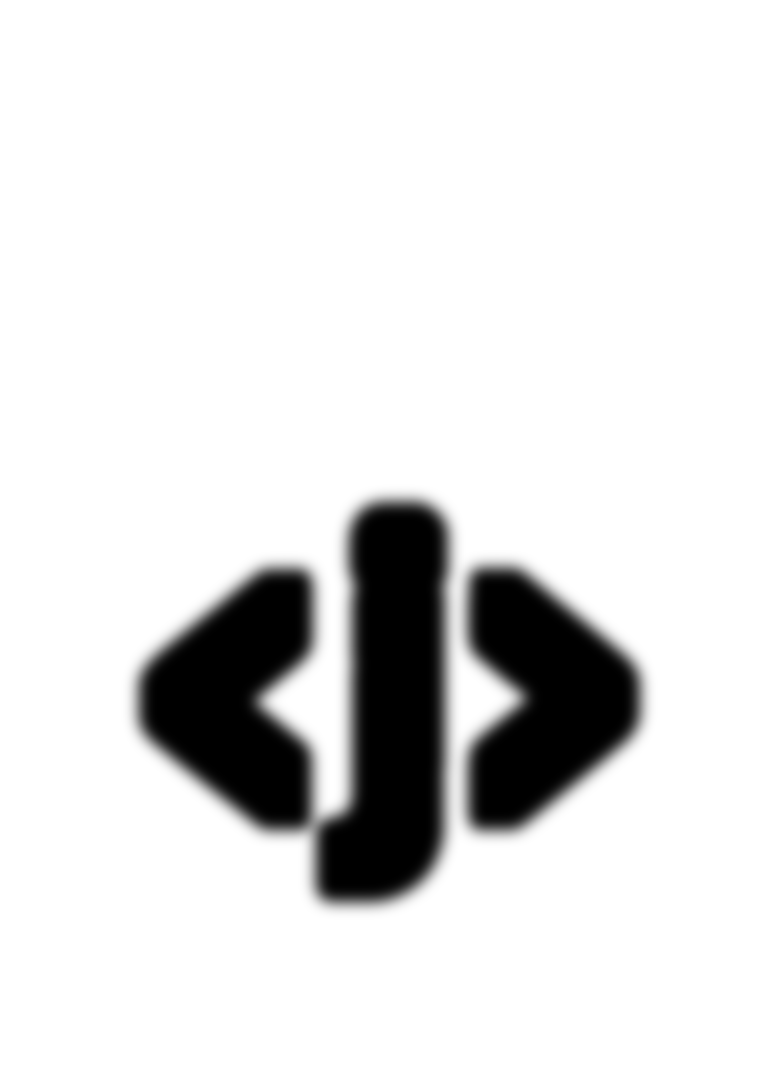
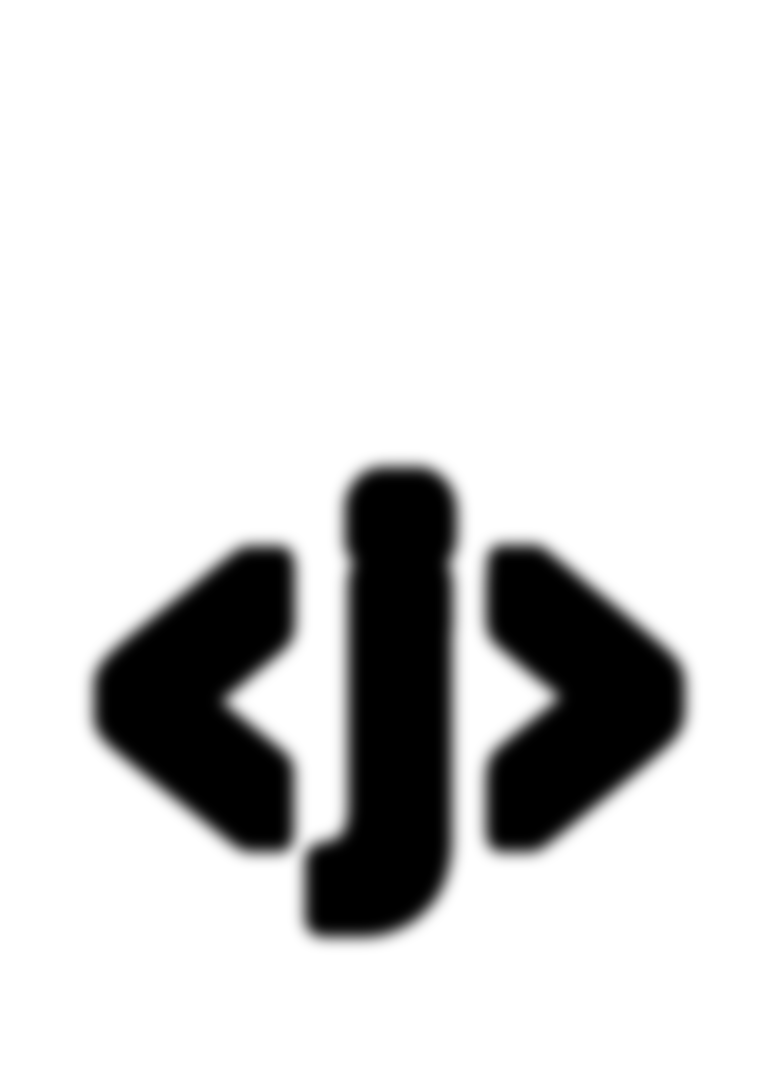
<j> larger again; add the jive wordmark next to the cat in the top bar
Claude-Session: https://claude.ai/code/session_018h6LDXsqm191p9UKm3Gx8Z

Changed region(s): [[0.0929, 0.4009, 0.8981, 0.8944]]

diff --git a/public/index.html b/public/index.html
@@ -40,9 +40,9 @@
 #splash .cat{left:0;top:0;width:100%}
 #splash .eyes{left:0;top:0;width:100%;clip-path:inset(27% 33% 62.6% 19%);opacity:0}
 #splash .lk img.bk{left:0;top:0;width:100%;mix-blend-mode:normal}
-#splash .pl{left:19.3%;top:47.6%;width:22.1%}
-#splash .pj{left:41.4%;top:47.6%;width:19%}
-#splash .pr{left:60.3%;top:47.6%;width:20.3%}
+#splash .pl{left:13.5%;top:44.1%;width:26.3%}
+#splash .pj{left:39.7%;top:44.1%;width:22.6%}
+#splash .pr{left:62.3%;top:44.1%;width:24.1%}
 #splash .bar{width:min(46vw,260px);height:2px;background:rgba(255,46,99,.18);border-radius:2px;opacity:0;overflow:hidden}
 #splash .bar i{display:block;height:100%;width:100%;background:#ff3a6e;box-shadow:0 0 8px 1px rgba(255,46,99,.8);transform:scaleX(0);transform-origin:0 50%}
 #splash.go .lk{animation:fadeIn .9s ease-out .1s forwards}
@@ -142,6 +142,7 @@ if(!n)start();setTimeout(start,2500)})();
   <main id="main">
     <header id="topbar">
       <img class="topbar-logo" src="/logo-mark.png?v=5" alt="Jive" />
+      <img class="topbar-wordmark" src="/wordmark.png?v=5" alt="jive" />
       <button id="toggleChats" class="icon-btn" title="Chats" aria-label="Chats"><svg class="ico" viewBox="0 0 24 24" fill="none" stroke="currentColor" stroke-width="1.8" stroke-linecap="round" stroke-linejoin="round" aria-hidden="true"><line x1="4" y1="7" x2="20" y2="7"/><line x1="4" y1="12" x2="20" y2="12"/><line x1="4" y1="17" x2="20" y2="17"/></svg></button>
 
       <button id="personaChip" class="persona-chip" type="button" aria-haspopup="dialog" aria-expanded="false" title="Switch persona">

diff --git a/public/styles.css b/public/styles.css
@@ -1273,4 +1273,5 @@ button:hover:not(:disabled) { text-shadow: 0 0 8px rgba(255,46,99,.5); }
 /* Brand lockup: cat mark + wordmark replace the star and text */
 .brand-logo{height:58px;width:auto;flex:0 0 auto;filter:drop-shadow(0 0 8px rgba(255,46,99,.5))}
 .brand-wordmark{height:44px;width:auto;flex:0 0 auto;filter:drop-shadow(0 0 8px rgba(255,46,99,.45))}
+.topbar-wordmark{height:26px;width:auto;flex:0 0 auto;margin-right:6px;filter:drop-shadow(0 0 6px rgba(255,46,99,.45))}
 .topbar-logo{height:30px;width:auto;flex:0 0 auto;margin-right:2px;filter:drop-shadow(0 0 6px rgba(255,46,99,.5))}
